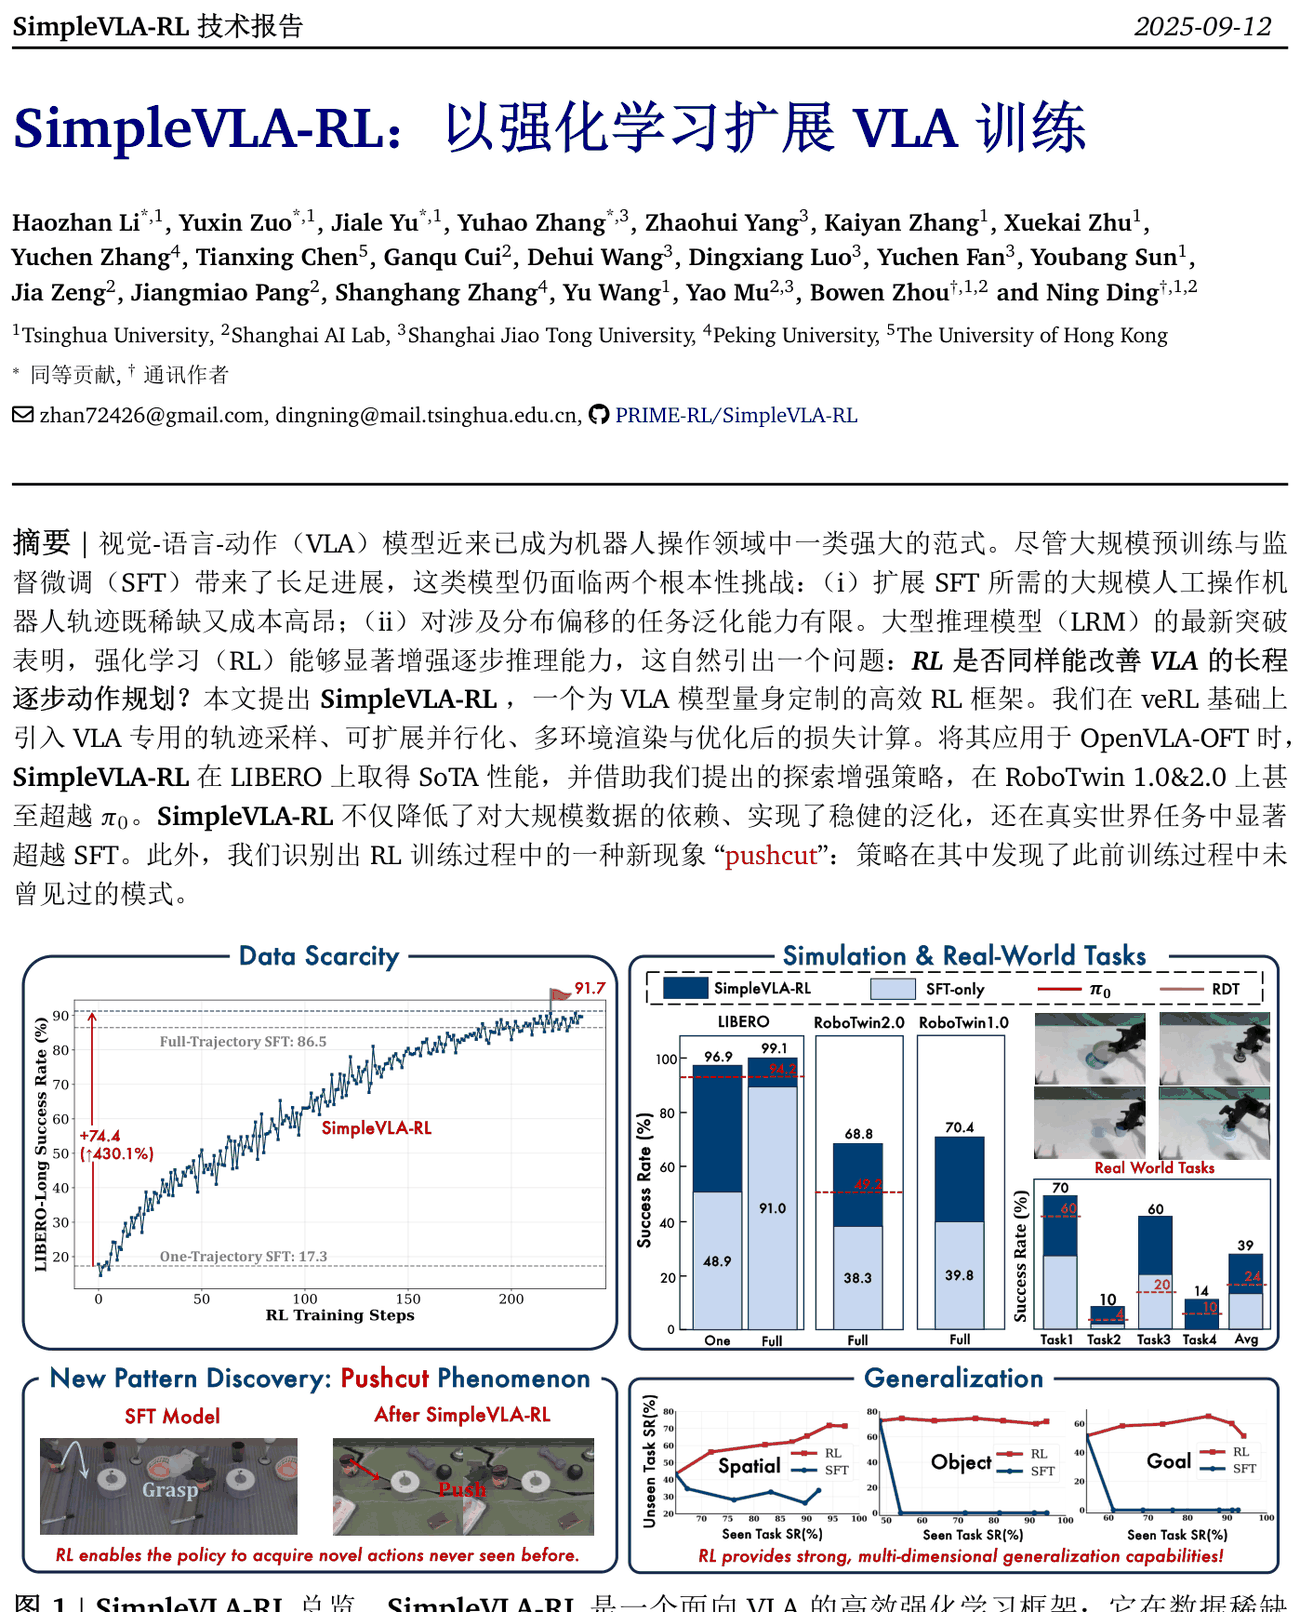
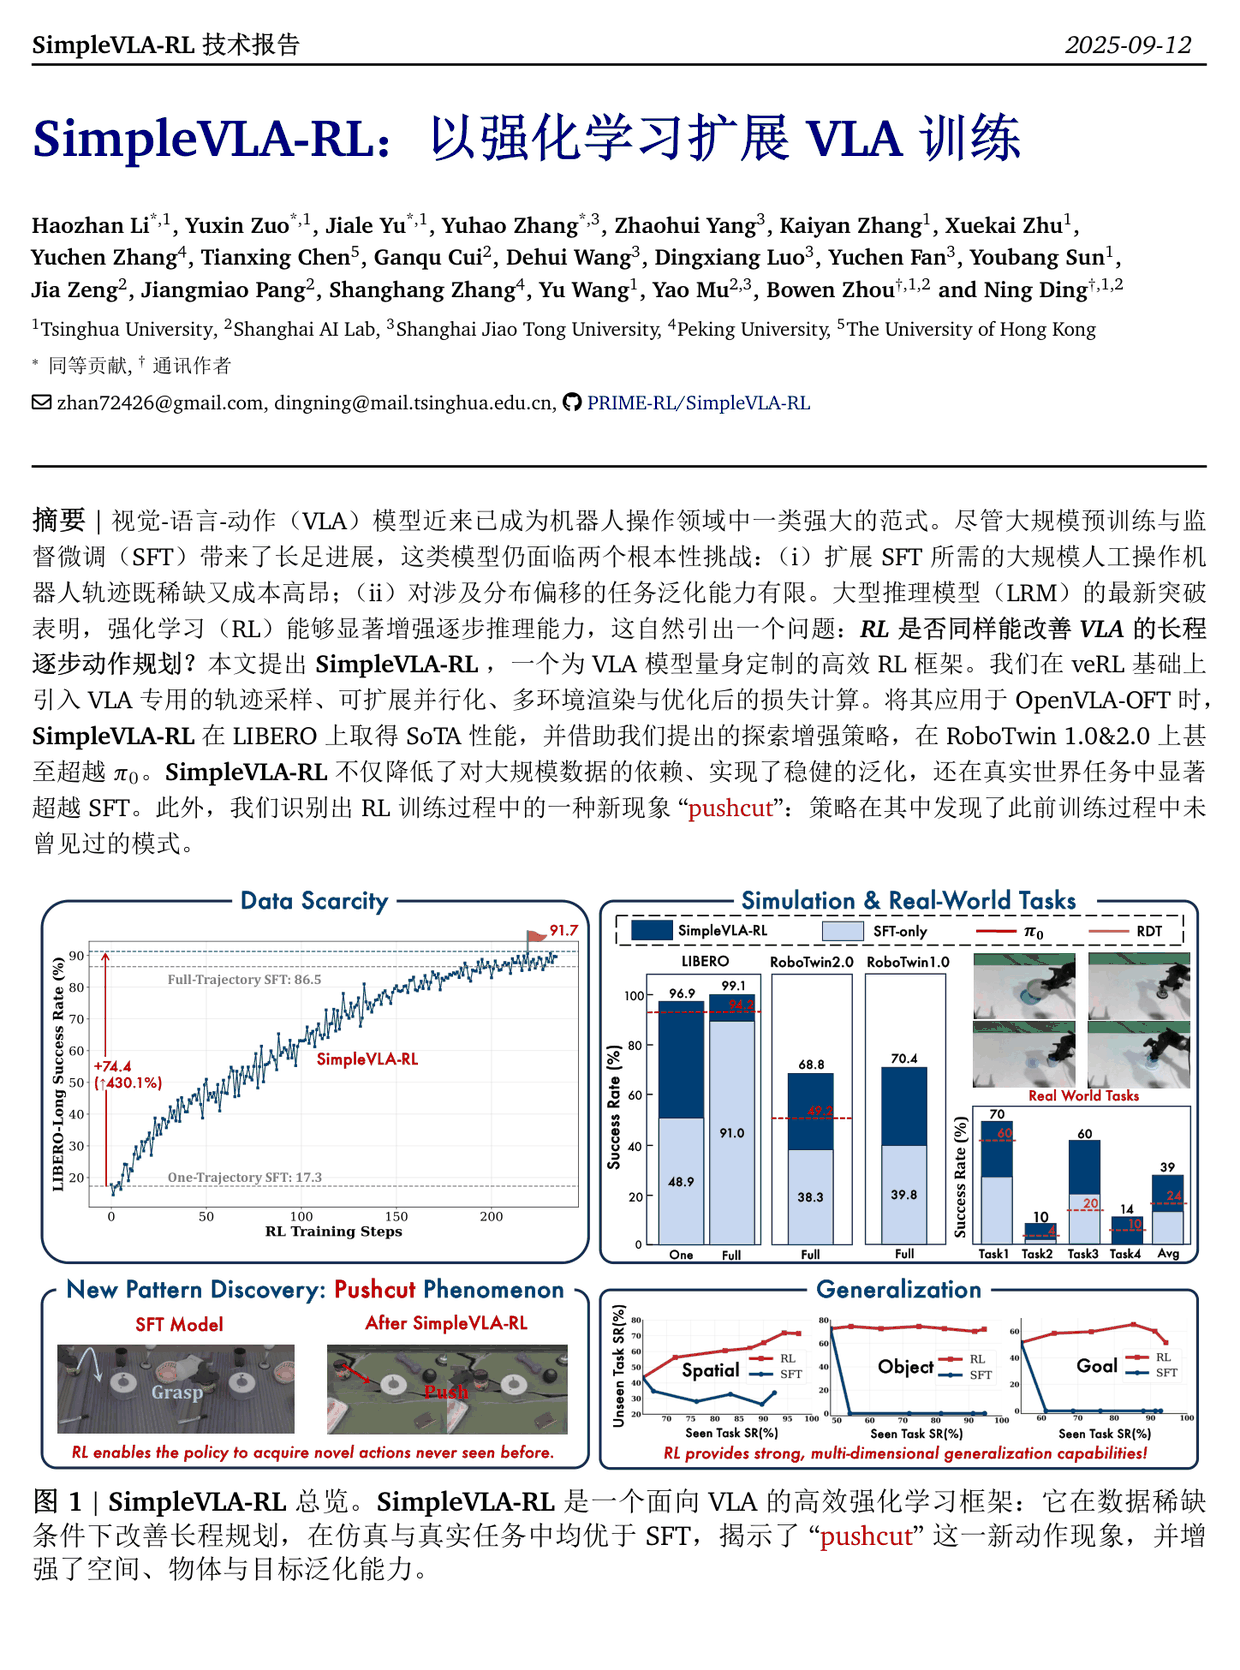
docs: 修掉译文页截图底部裁到图注的问题

diff --git a/README.md b/README.md
@@ -39,7 +39,7 @@
 ## 译出来是什么样
 
 <p align="center">
-  <img src="docs/images/showcase-page.png" width="620" alt="中文译文首页：标题、摘要、图 1 与图注">
+  <img src="docs/images/showcase-page.png" width="600" alt="中文译文首页：标题、摘要、图 1 与图注">
 </p>
 
 <p align="center">
